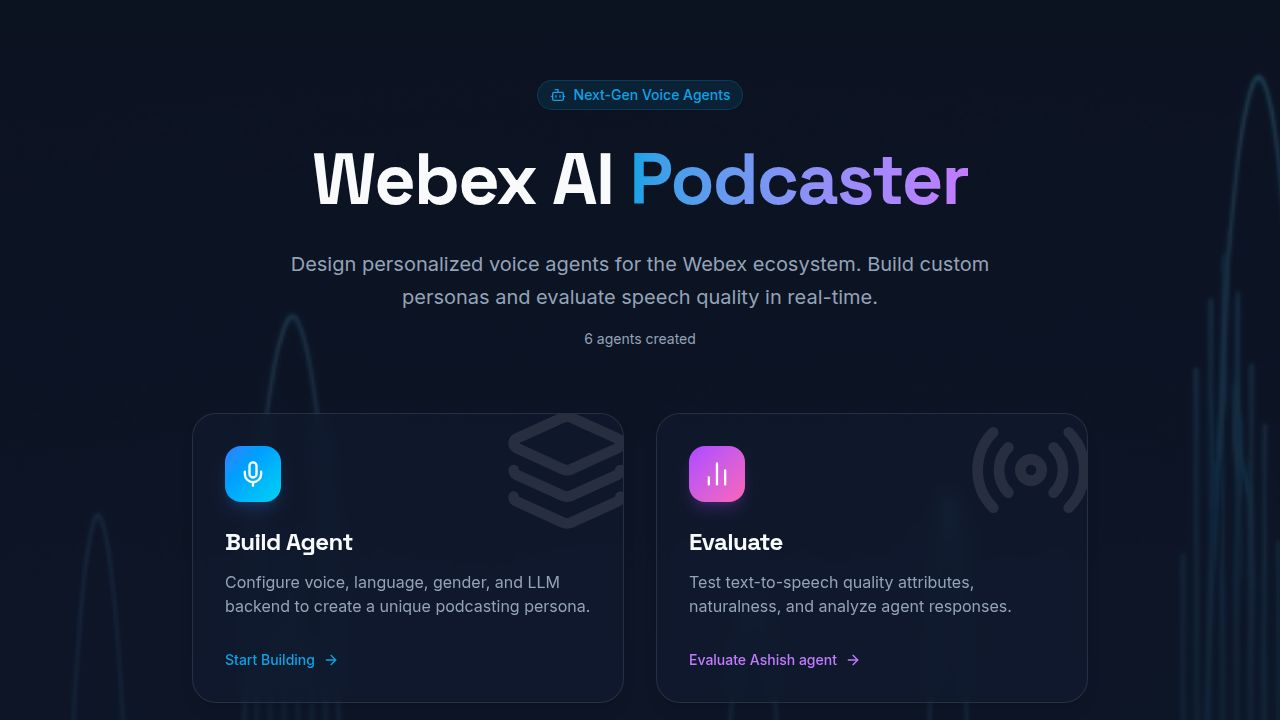
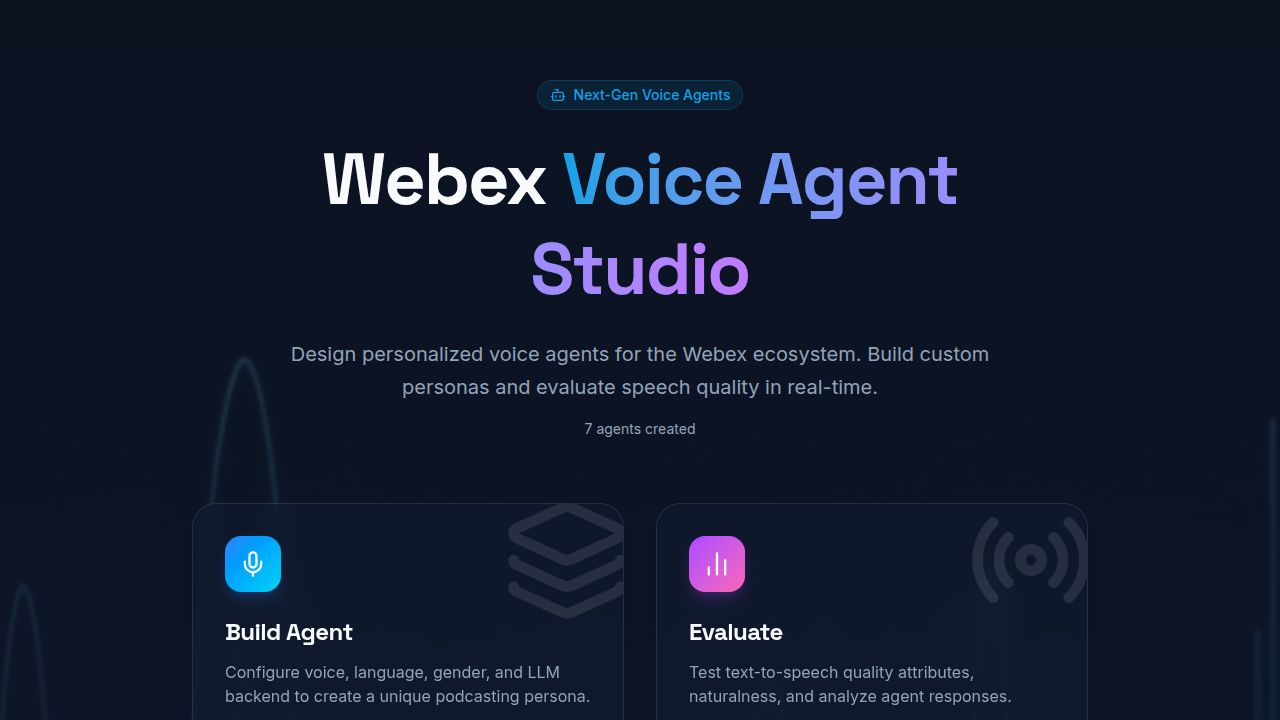
Update app name to Webex Voice Agent Studio across all files
Rename the application from "Webex AI Podcaster" to "Webex Voice Agent Studio" by updating text in client/src/pages/build.tsx, client/src/pages/evaluate.tsx, client/src/pages/home.tsx, and replit.md.

Replit-Commit-Author: Agent
Replit-Commit-Session-Id: 92c6c705-4bd4-4f47-b4ad-67adba25dac9
Replit-Commit-Checkpoint-Type: full_checkpoint
Replit-Commit-Event-Id: 26a30b6d-ab46-4778-84e6-5cbda2ef78f9
Replit-Commit-Screenshot-Url: https://storage.googleapis.com/screenshot-production-us-central1/ff1a0d85-1b58-4e0c-a58a-91a130d50e96/92c6c705-4bd4-4f47-b4ad-67adba25dac9/wwMT5Cf

diff --git a/client/src/pages/build.tsx b/client/src/pages/build.tsx
@@ -29,7 +29,7 @@ const VOICES = [
   { id: "shimmer", name: "Shimmer", gender: "Female", style: "Soft" },
 ];
 
-const VOICE_PREVIEW_TEXT = "Hello! I'm your AI podcaster assistant. Let me help you create engaging content.";
+const VOICE_PREVIEW_TEXT = "Hello! I'm your voice agent assistant. Let me help you with your tasks.";
 
 const DEFAULT_SYSTEM_PROMPT = `# Personality
 
@@ -284,7 +284,7 @@ export default function Build() {
     onSuccess: (agent) => {
       toast({
         title: "Agent Created Successfully",
-        description: "Your podcaster agent is ready for evaluation.",
+        description: "Your voice agent is ready for evaluation.",
       });
       setLocation(`/evaluate?agentId=${agent.id}`);
     },

diff --git a/client/src/pages/evaluate.tsx b/client/src/pages/evaluate.tsx
@@ -29,7 +29,7 @@ export default function Evaluate() {
   const [audioUrl, setAudioUrl] = useState<string | null>(null);
   const [audioDuration, setAudioDuration] = useState(0);
   const [currentTime, setCurrentTime] = useState(0);
-  const [inputText, setInputText] = useState("Welcome to the Webex AI Podcaster evaluation. I am ready to assist you.");
+  const [inputText, setInputText] = useState("Welcome to Webex Voice Agent Studio. I am ready to assist you.");
   
   const [ratings, setRatings] = useState({
     naturalness: 75,

diff --git a/client/src/pages/home.tsx b/client/src/pages/home.tsx
@@ -148,7 +148,7 @@ export default function Home() {
             <span>Next-Gen Voice Agents</span>
           </div>
           <h1 className="text-5xl md:text-7xl font-display font-bold mb-6 tracking-tight leading-tight">
-            Webex AI <span className="text-transparent bg-clip-text bg-gradient-to-r from-primary to-purple-400">Podcaster</span>
+            Webex <span className="text-transparent bg-clip-text bg-gradient-to-r from-primary to-purple-400">Voice Agent Studio</span>
           </h1>
           <p className="text-xl text-muted-foreground leading-relaxed">
             Design personalized voice agents for the Webex ecosystem. 

diff --git a/replit.md b/replit.md
@@ -1,8 +1,8 @@
-# Webex AI Podcaster
+# Webex Voice Agent Studio
 
 ## Overview
 
-Webex AI Podcaster is a full-stack web application for designing and evaluating personalized voice agents for the Webex ecosystem. The platform enables users to create custom AI-powered podcaster agents by selecting LLM models, voice models, languages, and other persona attributes. Users can then evaluate these agents by generating speech samples and rating them across multiple quality dimensions (naturalness, clarity, intonation, speed).
+Webex Voice Agent Studio is a full-stack web application for designing and evaluating personalized voice agents for the Webex ecosystem. The platform enables users to create custom AI-powered podcaster agents by selecting LLM models, voice models, languages, and other persona attributes. Users can then evaluate these agents by generating speech samples and rating them across multiple quality dimensions (naturalness, clarity, intonation, speed).
 
 The application is built as a modern single-page application (SPA) with a React frontend and Express backend, using PostgreSQL for persistent storage and integrating with OpenAI's API for text-to-speech capabilities.
 